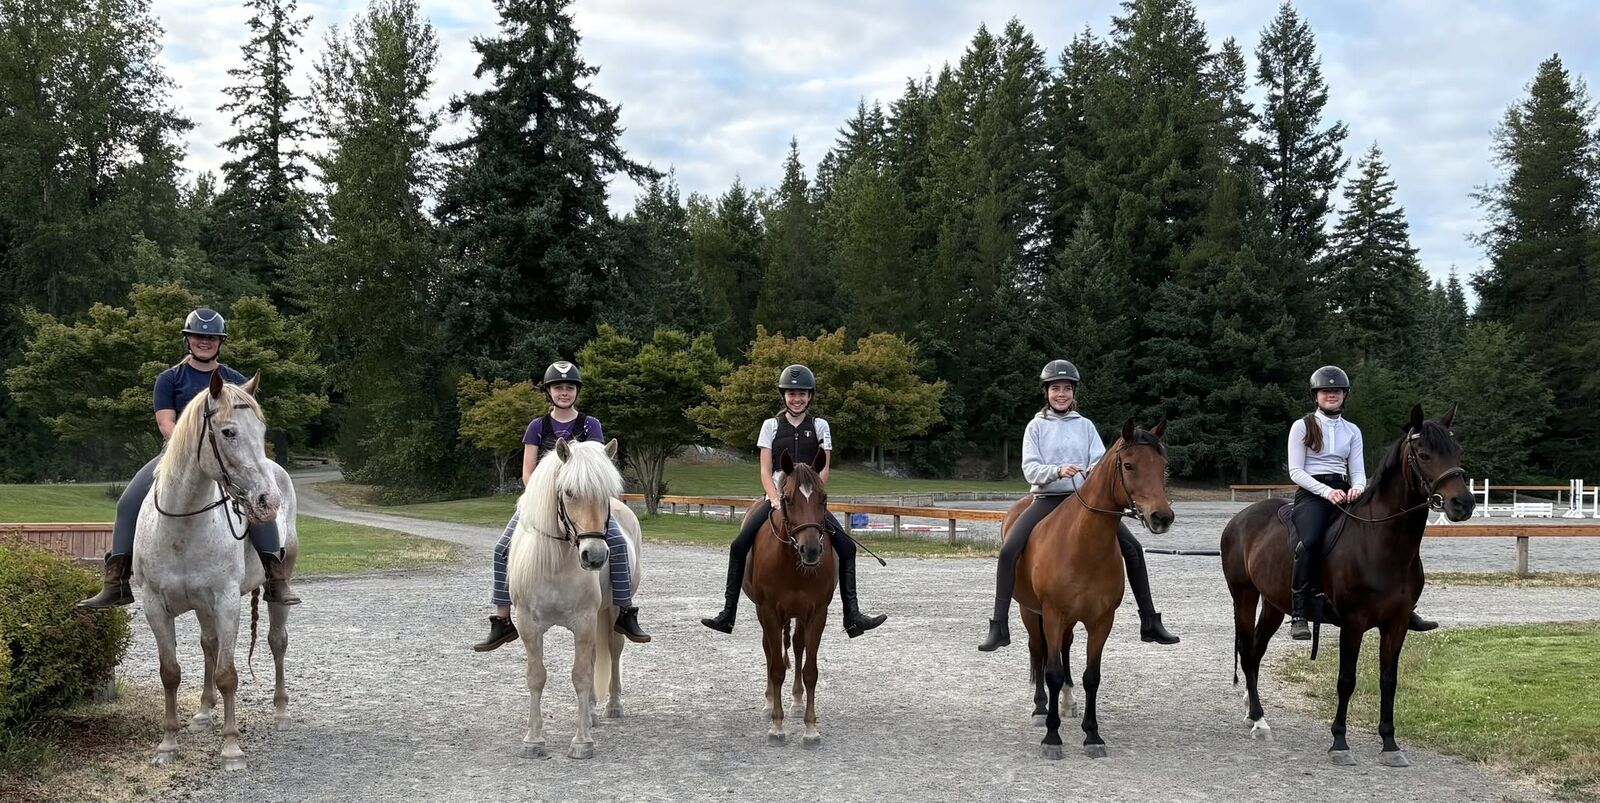
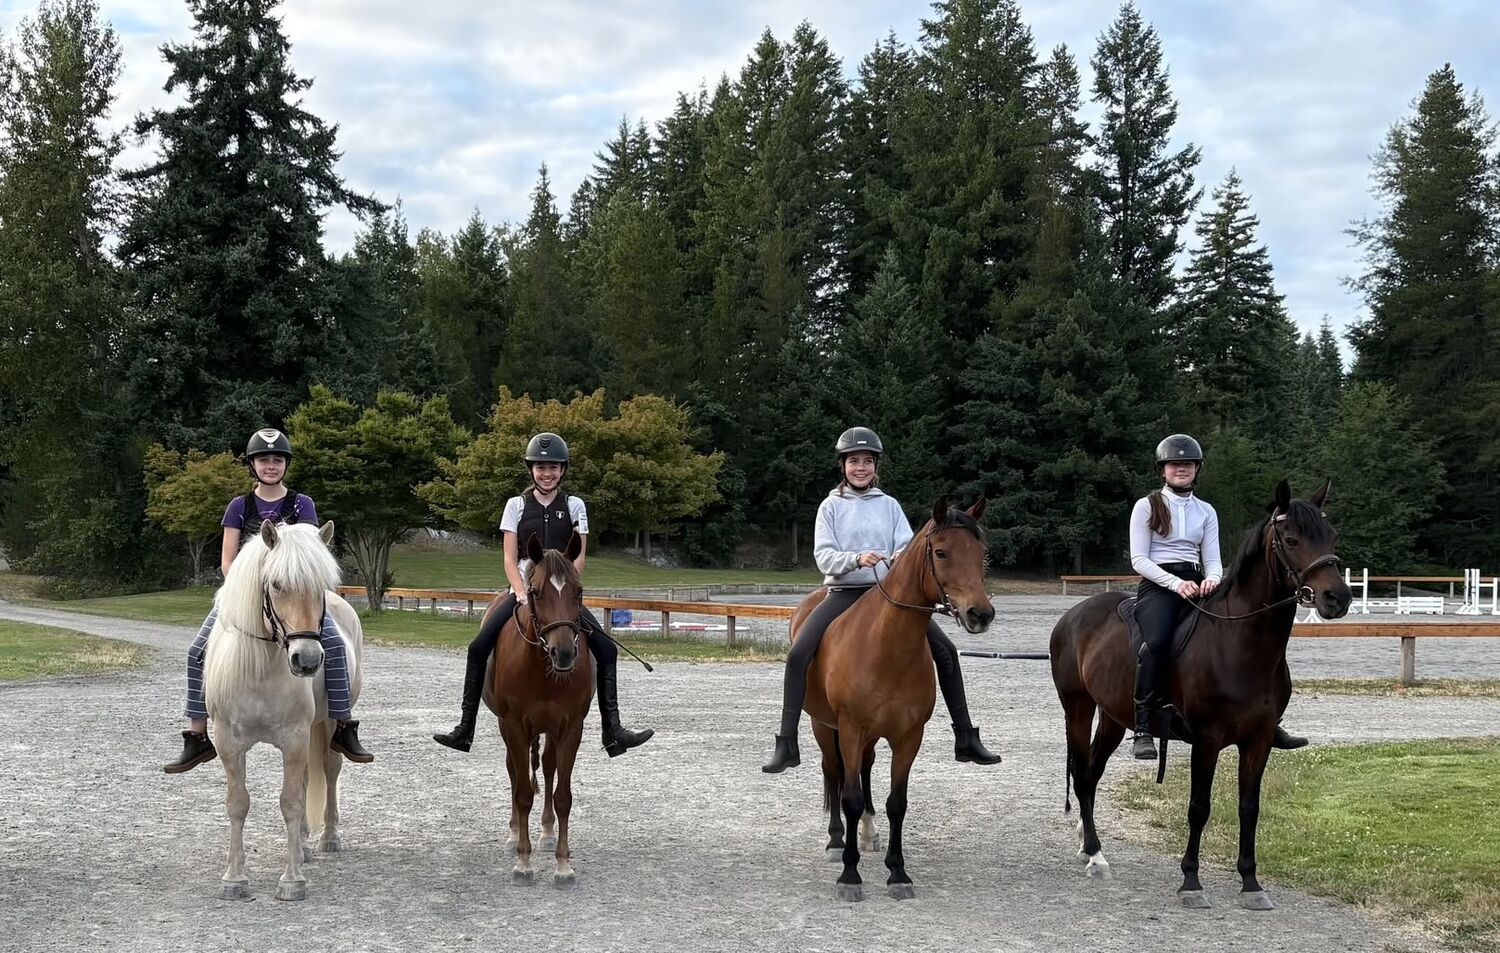
Keep photo shapes in the gallery, add click-to-zoom, tighten hero spacing
Claude-Session: https://claude.ai/code/session_01AWP1W8CHdauacme5qXsrT2

diff --git a/assets/css/style.css b/assets/css/style.css
@@ -94,20 +94,21 @@ p { margin: 0 0 1em; }
 .eyebrow-gold { color: var(--gold); }
 
 /* Hero */
-.hero { background: linear-gradient(180deg, var(--cream) 0%, #fff 85%); padding: 56px 0 64px; }
+.hero { background: linear-gradient(180deg, var(--cream) 0%, #fff 85%); padding: 56px 0 48px; }
 .hero-inner { display: grid; grid-template-columns: 1fr 1fr; gap: 48px; align-items: center; }
 .lead { font-size: 1.25rem; color: #2f3a4f; max-width: 34em; }
 .hero-actions { display: flex; flex-wrap: wrap; gap: 12px; margin: 28px 0 18px; }
 .hero-note { color: var(--muted); font-size: .98rem; }
 .hero-photo { margin: 0; }
+.hero-photo a.zoom { display: block; cursor: zoom-in; border-radius: var(--radius); }
 .hero-photo img, .why-photo img {
   width: 100%; aspect-ratio: 4 / 5; object-fit: cover; border-radius: var(--radius);
   box-shadow: 0 18px 40px rgba(19,55,126,.18);
 }
-.hero-photo img { aspect-ratio: 16 / 9; object-position: center 60%; border-bottom: 8px solid var(--gold); }
+.hero-photo img { aspect-ratio: 3 / 2; object-position: center 62%; border-bottom: 8px solid var(--gold); }
 
 /* Sections */
-.section { padding: 80px 0; }
+.section { padding: 64px 0; }
 .section-tint { background: var(--sky); }
 .section-navy { background: linear-gradient(180deg, #1c4290 0%, var(--navy-deep) 100%); color: #e9eef8; }
 .section-navy h2, .section-navy h3 { color: #fff; }
@@ -131,15 +132,30 @@ p { margin: 0 0 1em; }
 .key.camp { background: var(--gold); margin-left: 12px; }
 
 /* Photo placeholders */
-.gallery { display: grid; grid-template-columns: repeat(4, 1fr); gap: 12px; margin-top: 32px; }
-.gallery figure { margin: 0; }
-.gallery img { width: 100%; aspect-ratio: 1 / 1; object-fit: cover; border-radius: 8px; }
+.gallery { display: flex; gap: 12px; margin-top: 32px; max-width: 960px; }
+.gallery figure { margin: 0; flex-basis: 0; min-width: 0; }
+.gallery a.zoom { display: block; border-radius: 8px; overflow: hidden; cursor: zoom-in; }
+.gallery img { width: 100%; height: auto; transition: transform .2s ease; }
+.gallery a.zoom:hover img { transform: scale(1.04); }
 .gallery figcaption { margin-top: 6px; font-weight: 600; color: var(--navy); font-size: .9rem; line-height: 1.3; }
 .photo-slot {
   margin: 0; aspect-ratio: 4 / 3; border-radius: var(--radius);
   border: 2px dashed #9aa8c6; background: repeating-linear-gradient(45deg, #f4f6fb, #f4f6fb 12px, #eceff7 12px, #eceff7 24px);
   display: grid; place-items: center; text-align: center; padding: 16px; color: var(--muted); font-weight: 600;
 }
+
+/* Lightbox */
+.lightbox { border: 0; padding: 0; background: transparent; max-width: 100vw; max-height: 100vh; width: 100vw; height: 100vh; }
+.lightbox[open] { display: flex; align-items: center; justify-content: center; }
+.lightbox::backdrop { background: rgba(8, 18, 40, .88); }
+.lightbox figure { margin: 0; text-align: center; }
+.lightbox img { max-width: min(92vw, 1200px); max-height: 82vh; width: auto; height: auto; border-radius: 8px; box-shadow: 0 20px 60px rgba(0,0,0,.5); }
+.lightbox figcaption { color: #fff; font-weight: 600; margin-top: 12px; }
+.lightbox button { position: fixed; background: rgba(255,255,255,.14); color: #fff; border: 0; border-radius: 50%; width: 48px; height: 48px; font-size: 2rem; line-height: 1; cursor: pointer; display: grid; place-items: center; }
+.lightbox button:hover { background: rgba(255,255,255,.28); }
+.lb-close { top: 16px; right: 16px; }
+.lb-prev { left: 16px; top: 50%; transform: translateY(-50%); }
+.lb-next { right: 16px; top: 50%; transform: translateY(-50%); }
 
 /* Why Pony Club */
 .why-inner { display: grid; grid-template-columns: 1.3fr .7fr; gap: 48px; align-items: center; }
@@ -206,7 +222,7 @@ p { margin: 0 0 1em; }
 @media (max-width: 900px) {
   .hero-inner, .why-inner, .join-inner, .contact-inner { grid-template-columns: 1fr; gap: 36px; }
   .hero-photo { max-width: 640px; }
-  .hero-photo img { aspect-ratio: 16 / 9; }
+  .hero-photo img { aspect-ratio: 3 / 2; }
   .why-photo { max-width: 460px; }
   .why-photo img { aspect-ratio: 4 / 3; object-position: center 25%; }
   .section { padding: 60px 0; }
@@ -225,8 +241,8 @@ p { margin: 0 0 1em; }
   .nav-toggle[aria-expanded="true"] .bar:nth-child(4) { transform: translateY(-7px) rotate(-45deg); }
   .stat-grid, .feature-grid, .field-row { grid-template-columns: 1fr; }
   .gallery { gap: 6px; }
-  .gallery img { border-radius: 6px; }
-  .gallery figcaption { font-size: .72rem; }
+  .gallery a.zoom { border-radius: 6px; }
+  .gallery figcaption { display: none; }
   .year { grid-template-columns: repeat(6, 1fr); }
   .hero { padding-top: 36px; }
   .interest-form, .price-card { padding: 24px 20px; }

diff --git a/index.html b/index.html
@@ -64,7 +64,7 @@
           <p class="hero-note">Riding in Thurston County at Forest Park Equestrian Center and other local facilities.</p>
         </div>
         <figure class="hero-photo">
-          <img src="assets/img/camp-trail-ride.jpg" alt="Five Baywood riders lined up on their horses and ponies at summer camp, with tall evergreens behind them" width="1600" height="803">
+          <a href="assets/img/camp-trail-ride.jpg" class="zoom" data-caption="Summer camp at Aspen Farms" aria-label="Enlarge photo: Baywood riders at summer camp"><img src="assets/img/camp-trail-ride.jpg" alt="Four Baywood riders lined up on their horses and ponies at summer camp, with tall evergreens behind them" width="1500" height="953"></a>
         </figure>
       </div>
     </section>
@@ -101,20 +101,20 @@
         <p class="year-key"><span class="key on"></span> Two riding Saturdays and one horse-care Tuesday each month <span class="key camp"></span> Summer break and camp</p>
 
         <div class="gallery">
-          <figure>
-            <img src="assets/img/mounted-meeting.jpg" alt="Three riders on their ponies in an indoor arena with their instructor, who is wearing a pink tutu" width="1000" height="762" loading="lazy">
+          <figure style="flex-grow: 1.312">
+            <a href="assets/img/mounted-meeting.jpg" class="zoom" aria-label="Enlarge photo: Mounted meeting"><img src="assets/img/mounted-meeting.jpg" alt="Three riders on their ponies in an indoor arena with their instructor, who is wearing a pink tutu" width="1000" height="762" loading="lazy"></a>
             <figcaption>Mounted meeting</figcaption>
           </figure>
-          <figure>
-            <img src="assets/img/unmounted-meeting.jpg" alt="A member practicing clipping on a hay bale at an unmounted meeting" width="900" height="1200" loading="lazy">
+          <figure style="flex-grow: 0.750">
+            <a href="assets/img/unmounted-meeting.jpg" class="zoom" aria-label="Enlarge photo: Unmounted meeting"><img src="assets/img/unmounted-meeting.jpg" alt="A member practicing clipping on a hay bale at an unmounted meeting" width="900" height="1200" loading="lazy"></a>
             <figcaption>Unmounted meeting</figcaption>
           </figure>
-          <figure>
-            <img style="object-position: 0% 50%" src="assets/img/quiz-rally.jpg" alt="Four members holding ribbons on stage at a quiz rally" width="1000" height="750" loading="lazy">
+          <figure style="flex-grow: 1.333">
+            <a href="assets/img/quiz-rally.jpg" class="zoom" aria-label="Enlarge photo: Quiz rally"><img src="assets/img/quiz-rally.jpg" alt="Four members holding ribbons on stage at a quiz rally" width="1000" height="750" loading="lazy"></a>
             <figcaption>Quiz rally</figcaption>
           </figure>
-          <figure>
-            <img style="object-position: 0% 50%" src="assets/img/summer-camp.jpg" alt="Members and an instructor at summer camp at Aspen Farms" width="960" height="720" loading="lazy">
+          <figure style="flex-grow: 1.333">
+            <a href="assets/img/summer-camp.jpg" class="zoom" aria-label="Enlarge photo: Summer camp at Aspen Farms"><img src="assets/img/summer-camp.jpg" alt="Members and an instructor at summer camp at Aspen Farms" width="960" height="720" loading="lazy"></a>
             <figcaption>Summer camp at Aspen Farms</figcaption>
           </figure>
         </div>
@@ -279,6 +279,16 @@
       </div>
     </section>
   </main>
+
+  <dialog class="lightbox" id="lightbox" aria-label="Photo viewer">
+    <button class="lb-close" type="button" aria-label="Close">&times;</button>
+    <button class="lb-prev" type="button" aria-label="Previous photo">&#8249;</button>
+    <figure>
+      <img src="" alt="">
+      <figcaption></figcaption>
+    </figure>
+    <button class="lb-next" type="button" aria-label="Next photo">&#8250;</button>
+  </dialog>
 
   <footer class="site-footer">
     <div class="stripe" aria-hidden="true">

diff --git a/assets/js/main.js b/assets/js/main.js
@@ -53,3 +53,37 @@ if (form) {
       '<p>We got your note and will be in touch soon about visiting a meeting.</p></div>';
   }
 }
+
+// Gallery: click a photo to see it larger. Without JavaScript the link opens the image.
+const lightbox = document.getElementById('lightbox');
+const zoomLinks = [...document.querySelectorAll('a.zoom')];
+if (lightbox && lightbox.showModal && zoomLinks.length) {
+  const lbImg = lightbox.querySelector('img');
+  const lbCap = lightbox.querySelector('figcaption');
+  let current = 0;
+  const show = (i) => {
+    current = (i + zoomLinks.length) % zoomLinks.length;
+    const link = zoomLinks[current];
+    const thumb = link.querySelector('img');
+    lbImg.src = link.href;
+    lbImg.alt = thumb.alt;
+    const caption = link.closest('figure').querySelector('figcaption');
+    lbCap.textContent = link.dataset.caption || (caption ? caption.textContent : thumb.alt);
+  };
+  zoomLinks.forEach((link, i) => link.addEventListener('click', (e) => {
+    e.preventDefault();
+    show(i);
+    lightbox.showModal();
+  }));
+  lightbox.querySelector('.lb-close').addEventListener('click', () => lightbox.close());
+  lightbox.querySelector('.lb-prev').addEventListener('click', () => show(current - 1));
+  lightbox.querySelector('.lb-next').addEventListener('click', () => show(current + 1));
+  // Clicking the dark backdrop (not the photo or buttons) closes it
+  lightbox.addEventListener('click', (e) => {
+    if (e.target === lightbox) lightbox.close();
+  });
+  lightbox.addEventListener('keydown', (e) => {
+    if (e.key === 'ArrowLeft') show(current - 1);
+    if (e.key === 'ArrowRight') show(current + 1);
+  });
+}
